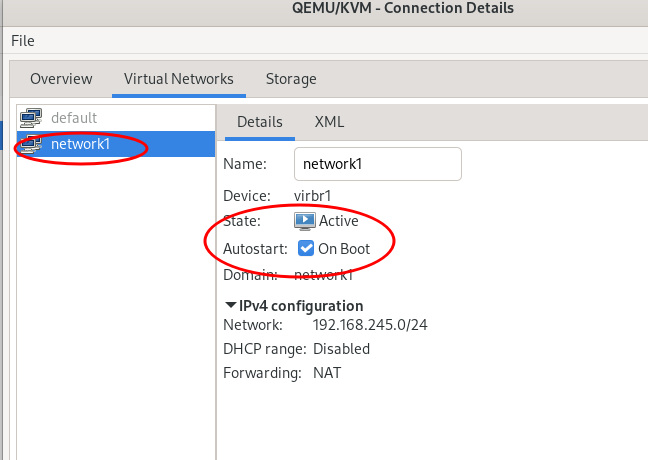
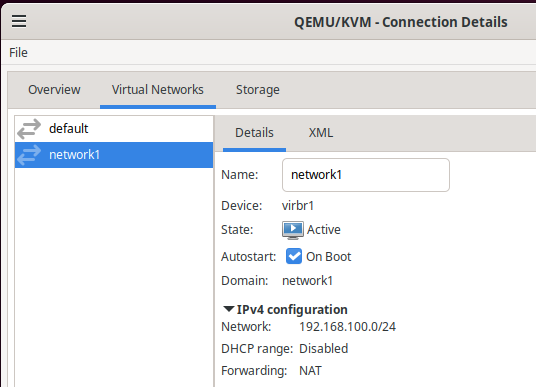
Lab 3: Finished Investigation 1 Part 1.

diff --git a/docs/Labs/lab3.md b/docs/Labs/lab3.md
@@ -19,16 +19,16 @@ Setting up networks is an essential operation for a system administrator. Mainta
 
 **Main Objectives**
 
-1. Configure a private virtual network for your **VMs** and your **debhost** machine
+1. Configure a private virtual network for your **VMs** and your **ubuhost** machine
 2. Configure network interfaces for your Virtual Machines using both **graphical** and **command-line** utilities.
-3. Use **local hostname resolution** to resolve hostnames to the corresponding IP addresses
-4. Use common networking utilities to associate network services with port numbers for troubleshooting purposes
+3. Use **local hostname resolution** to resolve hostnames to the corresponding IP addresses.
+4. Use common networking utilities to associate network services with port numbers for troubleshooting purposes.
 
 ### Minimum Required Materials
 
 - **Solid State Drive**
 - **USB key** (for backups)
-- **Lab6 Log Book**
+- **Lab Log Book**
 
 ### Linux Command Reference
 
@@ -38,7 +38,7 @@ Setting up networks is an essential operation for a system administrator. Mainta
 
 **Networking Configuration Files**
 
-- [Debian Network Configuration wiki page](https://wiki.debian.org/NetworkConfiguration)
+- [Ubuntu Network Configuration documentation](https://ubuntu.com/server/docs/configuring-networks)
 - [resolv.conf](https://linux.die.net/man/5/resolv.conf)
 
 **Additional Utilities**
@@ -49,7 +49,7 @@ Setting up networks is an essential operation for a system administrator. Mainta
 
 ## Investigation 1: Configuring A Virtual Network
 
-For the remainder of this course, we will focus on configuring our VM's to communicate across a (Virtual) network. This lab will focus on setting up a virtual network, connecting our VMs and debhost machine to the network, and configuring local hostname resolution to make it more convenient to use, troubleshoot, and protect. **Lab 7** will focus on configuring SSH and making access to the virtual network more secure. Finally, **lab 8** will focus on configuring a DHCP server to automatically assign an IP addresses and other configuration details to DHCP clients.
+For the remainder of this course, we will focus on configuring our VM's to communicate across a (Virtual) network. This lab will focus on setting up a virtual network, connecting our VMs and ubuhost machine to the network, and configuring local hostname resolution to make it more convenient to use, troubleshoot, and protect. **Lab 4** will focus on configuring SSH and making access to the virtual network more secure.
 
 ### Part 1: Configuring a Private Network (Via Virtual Machine Manager)
 
@@ -59,12 +59,12 @@ Before configuring our network, we want to **turn off dynamic network configurat
 
 ![ops245net](/img/ops245net.png)
 
-This diagram shows the current network configuration of your **debhost** machine in relation to your **Virtual Machines**. In this section, you will be learning to change the default network settings for both your **debhost** machine and **VMs** to belong to a **virtual network** using fixed IP Addresses.
+This diagram shows the current network configuration of your **ubuhost** machine in relation to your **Virtual Machines**. In this section, you will be learning to change the default network settings for both your **ubuhost** machine and **VMs** to belong to a **virtual network** using fixed IP Addresses.
 
 **Perform the following steps:**
 
-1. Launch your **debhost** and start the Virtual Machine Manager.
-2. Make certain that the **deb1**, **deb2**, and **deb3** virtual machines are **powered off**.
+1. Launch your **ubuhost** and start the Virtual Machine Manager.
+2. Make certain that the **ubu1**, and **ubu2** virtual machines are **powered off**.
 3. In the Virtual Machine Manager dialog box, select **Edit-> Connection Details**.
    ![vmmedit](/img/vmmedit.png)
 4. In the **Connection Details** dialog box, select the **Virtual Networks** tab
@@ -73,13 +73,13 @@ This diagram shows the current network configuration of your **debhost** machine
    ![vmmdefnet](/img/vmmdefnet.png)
 7. Click the **add** button (the button resembles a "plus sign") to add a new network configuration.
 8. Type the network name called: **network1**.
-9. Click on IPv4 configuration, change the **Network:** address to **192.168.245.0/24**
-10. Uncheck the **Enable DHCPv4** checkbox and click the **Finish** button.
+9. Click on IPv4 configuration, change the **Network:** address to **192.168.100.0/24**
+10. Leave the **Enable DHCPv4** checkbox checked and click the **Finish** button.
     ![vmmnetwork1](/img/vmmnetwork1.png)
 11. Select **network1** and make sure the **State:** is Active and **Autostart: On Boot** is enabled.
     ![vmmnet1start](/img/vmmnet1start.png)
-12. Close the Connection Details window and open a terminal on **debhost**
-13. Confirm that **debhost** is connected to **network1** and gather network information with the following commands:
+12. Close the Connection Details window and open a terminal on **ubuhost**
+13. Confirm that **ubuhost** is connected to **network1** and gather network information with the following commands:
 
 ```bash
 # Show network interfaces including host IPv4 address
@@ -89,102 +89,40 @@ ip address
 ip route
 ```
 
-![dehostipadd](/img/debhostipadd.png)
+![ubuhostipadd](/img/ubuhostipadd.png)
 
-> You can see that **debhost** has 3 network interfaces:
+> You can see that **ubuhost** has 3 network interfaces:
 >
 > - **lo** The "loopback" interface with the reserved loopback IPv4 address of **127.0.0.1/8**
-> - **ens33** (The name will be different if you are using VirtualBox) The interface connected to the VMWare or VirtualBox virtual network.
-> - **virbr1** The interface connected to **network1** with the IPv4 address of **192.168.245.1/24**
+> - **enp34s0** (The name may be slightly different)
+> - **virbr1** The interface connected to **network1** with the IPv4 address of **192.168.100.1/24**
 
-14. Make a note of the IPv4 address for **virbr1**  
-    ![debhostiproute](/img/debhostiproute.png)
+14. Make a note of the IPv4 address for **virbr1** . Note it is the first usable IP in the subnet.
+    ![ubuhostiproute](/img/ubuhostiproute.png)
 
-> You can see that **debhost** is configured with a **default gateway** (default route) that is the IPv4 address of either the lab PC or your laptop.
+> You can see that **ubuhost** is configured with a **default gateway** (default route) that is the IPv4 address of either the lab PC or your laptop.
 >
-> **debhost** is also connected to 2 networks. The VMWare/VirtualBox virtual network, and the KVM/Qemu virtual network **network1** via the interface **virbr1**
+> **ubuhost** is also connected to 2 networks. The physical network in the lab or your laptop, and the KVM/Qemu virtual network **network1** via the interface **virbr1**
 
 We will now reconfigure each of our VMs to use our new virtual network **network1**
 
-15. Start with the **deb1** VM. Double-click on your **deb1** VM, but instead of starting the VM, click on the **View** menu, and select: **Details**
+15. Start with the **ubu1** VM. Double-click on your **ubu1** VM, but instead of starting the VM, click on the **View** menu, and select: **Details**
 16. In the **left pane** of the Virtual Machine window, select **NIC**: and note that this NIC is connected to the **Network source: 'default'**
 17. Change it to **Virtual Network network1: NAT** (i.e. the network that you just created) and click the **Apply** button.
 
-![deb1vmnic](/img/deb1vmnic.png)
+![ubu1vmnic](/img/ubu1vmnic.png)
 
-### Part 2: Configuring deb1 with a static address on 'network1'
+### Part 2: Configure the static network connection using command line tools
 
-In this section, we will be using the **Gnome Settings** graphical tool to connect our **deb1** VM to **network1**.
+The ubu1 and ubu2 VMs are **text-based only** systems, we cannot use a graphical tool to configure the connection to our network. We will learn how to perform this task by editing text files and command-line tools.
 
-Although the private virtual network has been setup via **Virtual Machine Manager**, each virtual machine has to have its interface configured with a valid static address (either **graphically** or by **command line**).
+Although you can use the **ip** command to temporarily create a static IP address connection to a network, you need to add the network settings to the **/etc/netplan/99_config.yaml** file to automatically connect to the network upon system boot-up. **Note:** This file is in yaml (YAML ain't markup language), which has it's own syntax. It's designed to be easy to read and understand. It makes use of whitespace (like Python). If your yaml files are not properly indented, they will not work.
 
-**Perform the following steps:**
+**Perform the following steps on ubu1:**
 
-1. On your **debhost** machine, run **`ip address`** and make note of the IP address assigned to the **virbr1** (i.e. "Virtual Bridge) interface. This will be the default gateway and DNS server for your other VMs.
-2. Select the **Console** view (instead of Details), start your **deb1** VM, and login.
-3. Within your **deb1** VM, open a terminal and show the network interfaces with the command **`ip address`**
-   ![deb1ipadd1](/img/deb1ipadd1.png)
-
-> You can see the network interface does not have a IPv4 address. DHCP is not available for the network so a static address must be configured
-
-4. Click on the network icon located on the status bar at the lower left corner of the desktop.
-5. Choose **Network Connections**
-
-![deb1netstatus](/img/deb1netstatus.png)
-
-6. Select **Wired Connection 1** and click on the settings icon
-
-![deb1netsettings](/img/deb1netsettings.png)
-
-4. Click on the **IPv4 Settings** tab
-5. Change the Method to **Manual** and **Add** the Address **192.168.245.11**, Netmask **255.255.255.0**
-6. The **Gateway** address should be the IP address of **debhost** (**192.168.245.1**)
-7. Add the same **debhost** address as the **DNS server** and click on Save. **deb1** should connect to the network
-
-![deb1staticip](/img/deb1staticip.png)
-
-8. Open a terminal and display the **network interfaces** and **route table** to confirm the IP address and default gateway.
-
-![deb1ipadd2](/img/deb1ipadd2.png)
-
-![deb1iproute](/img/deb1iproute.png)
-
-9. To check the DNS server and test connectivity try the following commands:
-
-```bash
-# To check the DNS server address
-nslookup
-> server
-
-# To resolve the Debian web server to IP address
-> www.debian.org
-
-# To resolve google to IP address
-> www.google.com
-
-# Exit nslookup
-> exit
-
-# Test IP connectivity to debhost
-ping 192.168.245.1
-
-# Test IP connectivity to the Internet
-ping www.debian.org
-```
-
-![deb1ping](/img/deb1ping.png)
-
-### Part 3: Configure the static network connection using command line tools (deb2 and deb3)
-
-The deb2 and deb3 VMs are **text-based only** systems, we cannot use a graphical tool to configure the connection to our network. We will learn how to perform this task by editing text files and command-line tools.
-
-Although you can use the **ip** command to temporarily create a static IP address connection to a network, you need to add the network settings to the **/etc/network/interfaces** file to automatically connect to the network upon system boot-up.
-
-**Perform the following steps:**
-
-1. Just as you did with **deb1** Configure your **deb3** VM (in the **View -> Details** menu of Virtual Machine Manager) to configure the NIC interface to connect to **network1**, click **Apply**, and switch your deb3 VM view from _details_ to **console**.
-2. Start your **deb3** VM, login, and use **ip address show** to check the current address.
-3. The **`ip`** command can be used to display information about the **interfaces**, **addresses**, and **routes** configured in the system. It can also be used to control those configurations. Try the following commands on **deb3**:
+1. Click on **View** and select **Console**.
+1. Start your **ubu1** VM, login, and use **ip address show** to check the current address.
+1. The **`ip`** command can be used to display information about the **interfaces**, **addresses**, and **routes** configured in the system. It can also be used to control those configurations. Try the following commands on **ubu1**:
 
 ```bash
 # Display links (interfaces on a network) and the MAC address of those interfdaces
